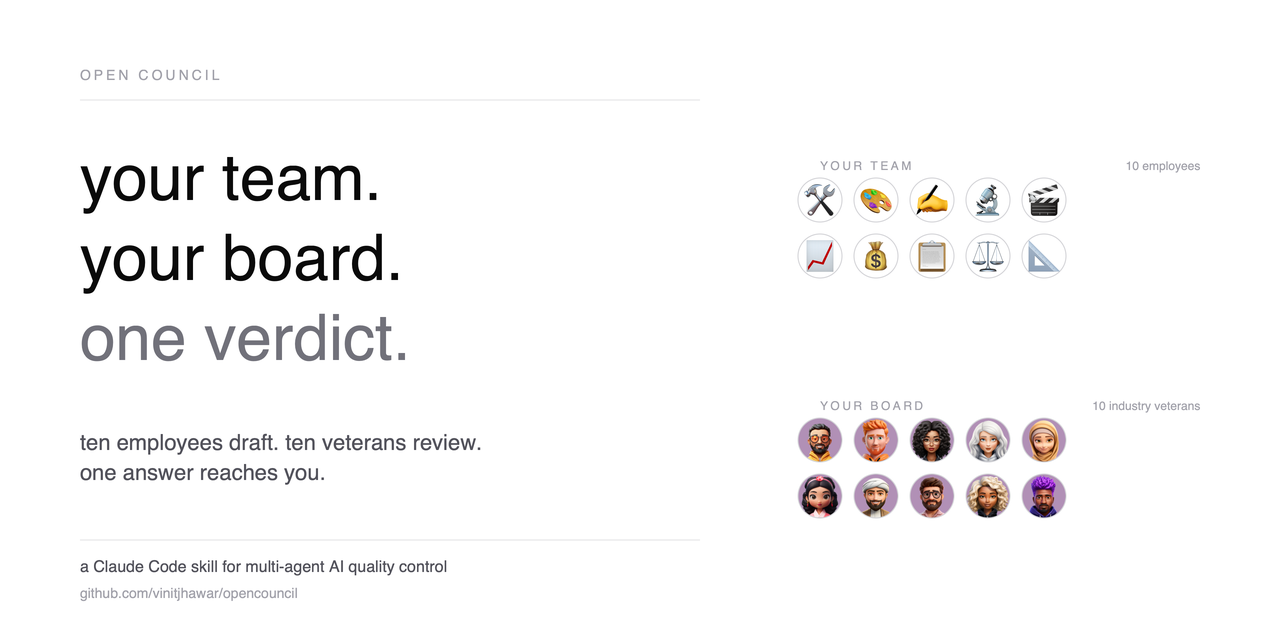
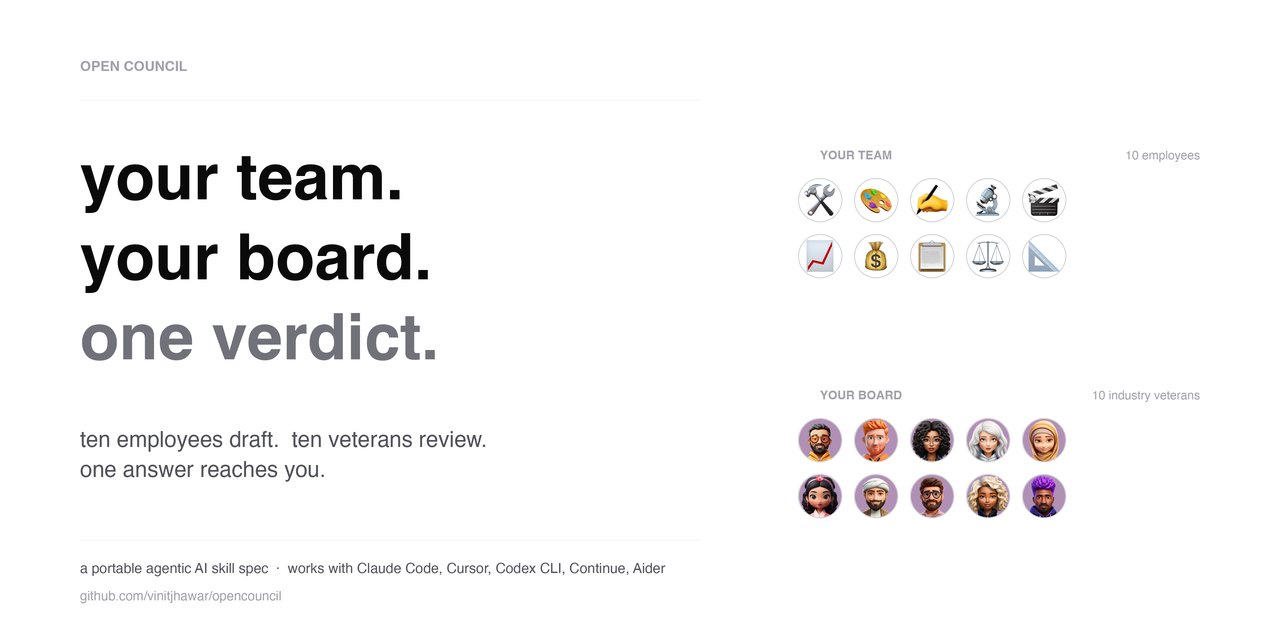
social preview rendered natively with Pillow + Helvetica Bold (no more font substitution) README: tool-agnostic positioning, explicit dependency list per employee
social-preview.png:
- ditched cairosvg (was substituting -apple-system with a generic font, losing bold weight)
- now rendered directly with Pillow using /System/Library/Fonts/Helvetica.ttc index 1 for real Helvetica Bold
- 3840x1920 supersampled, Lanczos-downsampled to exact 1280x640 spec
- bold headlines match the SVG version, no thinning under conversion

README:
- title and tagline broadened: "portable agentic AI skill" not "Claude Code skill"
- new "Compatible tools" section: Claude Code, Cursor, Codex CLI, Continue, Aider with install paths each
- new "What gets downloaded per employee" section: full table of every repo clone per role,
  totals (~60 skills, ~200 MB), MIT/Apache 2.0 licensing, selective-install note
- tested-with line mentions Claude Sonnet/Opus/Haiku, GPT-4 Codex, o4-mini

diff --git a/README.md b/README.md
@@ -4,16 +4,16 @@
 
 # Open Council
 
-### The Claude Code skill that gives you a ten-person team and a ten-member board before you see the answer.
+### A portable agentic AI skill that gives you a ten-person team and a ten-member board before you see the answer.
 
 [![License: MIT](https://img.shields.io/badge/license-MIT-22d3ee.svg)](LICENSE)
-[![Claude Code skill](https://img.shields.io/badge/claude%20code-skill-f59e0b.svg)](#install)
+[![Portable spec](https://img.shields.io/badge/portable-spec-f59e0b.svg)](#compatible-tools)
 [![Install Time](https://img.shields.io/badge/install-30%20seconds-22c55e.svg)](#install)
 [![Questions Asked](https://img.shields.io/badge/questions%20asked-1-a78bfa.svg)](#use)
 
-**A multi-agent AI quality system for [Claude Code](https://claude.com/claude-code). Ten specialist employees draft the work. Ten industry-veteran board members review it. You see one verdict. One command to install, one question to answer.**
+**A multi-agent AI quality system. Ten specialist employees draft the work. Ten industry-veteran board members review it. You see one verdict. One command to install, one question to answer.**
 
-Built as a [Claude skill](https://claude.com/claude-code) for anti-sycophancy, AI quality control, multi-agent orchestration, LLM disagreement, AI hallucination prevention, and team-style task execution. Works with Claude Sonnet, Claude Opus, and Claude Haiku via Claude Code.
+Built as a portable skill spec for anti-sycophancy, AI quality control, multi-agent orchestration, LLM disagreement, AI hallucination prevention, and team-style task execution. Works with [Claude Code](https://claude.com/claude-code), [Cursor](https://cursor.sh), [Codex CLI](https://github.com/openai/codex), [Continue](https://continue.dev), and [Aider](https://aider.chat), plus any agentic coding tool that reads `SKILL.md` files or supports custom skill folders. Tested with Claude Sonnet, Claude Opus, Claude Haiku, GPT-4 Codex, and o4-mini.
 
 </div>
 
@@ -45,20 +45,41 @@ Each one is prompted to disagree, not to agree. Only after the board reaches con
 
 ---
 
+## Compatible tools
+
+Open Council is a portable `SKILL.md` spec. Any agentic AI tool that loads custom skills can run it. Install path differs per tool, the skill itself is identical.
+
+| Tool | Install path | Status |
+|------|--------------|--------|
+| [Claude Code](https://claude.com/claude-code)  | `~/.claude/skills/opencouncil`                              | tested |
+| [Cursor](https://cursor.sh)                    | `~/.cursor/rules/opencouncil` or `.cursor/rules/` in repo   | tested |
+| [Codex CLI](https://github.com/openai/codex)   | `~/.codex/skills/opencouncil`                               | tested |
+| [Continue](https://continue.dev)               | `~/.continue/skills/opencouncil`                            | tested |
+| [Aider](https://aider.chat)                    | `.aider.conf.yml` → `read: opencouncil/skills/`             | tested |
+| Any other tool that loads markdown skills      | drop the `skills/` folder in, point your tool at it         | community |
+
+---
+
 ## Install
 
-Two commands. The first installs Open Council. The second arms every employee with their full skill stack (vercel-labs, supabase, emilkowalski, sergebulaev, lawvable, and 55+ more — about 60 skills across the team).
+Two steps. Pick your tool below, then run `install-all.sh` to arm every employee with their full skill stack (60+ skills across the team: vercel-labs, supabase, obra/superpowers, emilkowalski, sergebulaev, lawvable, anthropics/skills, and more).
 
 ```bash
-git clone https://github.com/vinitjhawar/opencouncil.git ~/.claude/skills/opencouncil
-bash ~/.claude/skills/opencouncil/install-all.sh
+# 1. install Open Council (pick the line for your tool)
+git clone https://github.com/vinitjhawar/opencouncil.git ~/.claude/skills/opencouncil       # Claude Code
+git clone https://github.com/vinitjhawar/opencouncil.git ~/.cursor/rules/opencouncil        # Cursor
+git clone https://github.com/vinitjhawar/opencouncil.git ~/.codex/skills/opencouncil        # Codex CLI
+git clone https://github.com/vinitjhawar/opencouncil.git ~/.continue/skills/opencouncil     # Continue
+
+# 2. arm every employee with their full skill stack
+bash <install-path>/install-all.sh
 ```
 
-That is the install. No Python. No servers. No config files. No graph theory. Works inside Claude Code you already have.
+Skip step 2 if you only want light mode (5 board members, no employees). Run it once when you are ready for medium and heavy modes to be fully powered. Safe to re-run.
 
-Skip the second command if you only want light mode (5 board members, no employees). Run it once when you are ready for medium and heavy modes to be fully powered. Safe to re-run.
+Open your tool. Type `opencouncil`. The skill activates.
 
-Open Claude Code. Type `opencouncil`. The skill activates.
+See the [What gets downloaded](#what-gets-downloaded-per-employee) section for the exact list of dependencies per employee.
 
 ---
 
@@ -118,6 +139,29 @@ Ten character profiles. They are not real people. They are perspectives. Each on
 | 🌍 | The Outsider        | What an intelligent stranger would not get | Soft |
 
 For domain-specific tasks (automotive, design, finance, legal) the board swaps three soft-veto seats for domain experts. Hard-veto seats stay locked.
+
+---
+
+## What gets downloaded per employee
+
+Each employee's `SKILL.md` ships with a `git clone` block. `install-all.sh` is the one-shot script that runs them all. Exact dependency list per employee, so you know what is touching your machine before you commit:
+
+| Employee | Skills cloned | What they do |
+|----------|---------------|--------------|
+| 🛠️ **Engineer** | vercel-labs/agent-skills · supabase/agent-skills · obra/superpowers · lackeyjb/playwright-skill · yamadashy/browser-extension-developer · mhattingpete/claude-skills-marketplace · anthropics/skills (webapp-testing) · RetellAI/n8n-nodes-retellai | Next.js, React, Supabase, TDD, debugging, Playwright, Chrome MV3, voice agents |
+| 🎨 **Designer** | anthropics/skills (frontend-design, canvas-design) · emilkowalski/skill · pbakaus/impeccable · dominikmartn/nothing-design-skill · jaywilburn/refactoring-ui-skill · kylezantos/design-motion-principles · aboul3ata/lazyweb-skill · canva-sdks/canva-claude-skills · VoltAgent/awesome-claude-design | Anti-AI-slop UI, dark industrial, refactoring UI, motion principles, real-app grounding |
+| ✍️ **Writer** | boraoztunc/skills · coreyhaines31/marketingskills · wondelai/skills · sergebulaev/linkedin-skills · blader/humanizer · anthropics/skills (internal-comms, doc-coauthoring) · aaron-he-zhu/seo-geo-claude-skills | Ogilvy, Cialdini, Heath, LinkedIn algorithm, AI-tell stripping |
+| 🔬 **Researcher** | VoltAgent/awesome-claude-code-subagents · aaron-he-zhu/seo-geo-claude-skills · AgriciDaniel/claude-seo · obra/superpowers (brainstorming + systematic-research) · coreyhaines31/marketingskills · trailofbits/agent-toolkit | Market research, competitive analysis, SEO, GEO, source verification |
+| 🎬 **Video Editor** | heygen-com/hyperframes · remotion-dev/skills · robonuggets/hyperframes-helper · boraoztunc/skills (HyperFrames pack) · anthropics/skills (algorithmic-art, slack-gif-creator) · kylezantos/design-motion-principles | HTML video, Remotion, GSAP, motion craft, thumbnails |
+| 📈 **Growth** | sergebulaev/linkedin-skills · coreyhaines31/marketingskills · aaron-he-zhu/seo-geo-claude-skills · wondelai/skills · alirezarezvani/claude-skills | LinkedIn algorithm 2026, distribution, audience-building, channel-native posting |
+| 💰 **CFO** | anthropics/claude-cookbooks (creating-financial-models) · alirezarezvani/claude-skills (cfo-advisor) · anthropics/skills (xlsx) · anthropics/financial-services · Sagargupta16/claude-cost-optimizer · ancs21/ai-sub-invest | DCF, sensitivity analysis, burn rate, token cost auditing |
+| 📋 **Career Agent** | Paramchoudhary/ResumeSkills · varunr89/resume-tailoring-skill · ericgandrade/claude-superskills · boraoztunc/skills · wondelai/skills (Voss negotiation) · anthropics/skills (doc-coauthoring, docx) | ATS optimisation, recruiter Boolean, cover letters, salary negotiation |
+| ⚖️ **Legal** | lawvable/awesome-legal-skills · anthropics/claude-for-legal · Sushegaad/Claude-Skills-Governance-Risk-and-Compliance · prompt-security/clawsec · BehiSecc/vibesec · trailofbits/agent-toolkit | GDPR, EU AI Act, HIPAA, SOC 2, ISO 27001, Chrome Web Store, OWASP |
+| 📐 **PM** | VoltAgent/awesome-claude-code-subagents · alirezarezvani/claude-skills · wondelai/skills · mhattingpete/claude-skills-marketplace · anthropics/skills (skill-creator) | Prioritisation, decision frameworks, orchestration routing, PRDs |
+
+**Totals:** roughly 60 distinct skills cloned across all ten employees, all from public GitHub repos with permissive licences (MIT, Apache 2.0). No private keys required. No phone-home telemetry. Everything stays on your machine. Footprint is around 200 MB on disk after `install-all.sh`. Disk space and the install run are the only costs.
+
+**Selective install:** if you do not want all ten employees, only run the install commands inside the SKILL.md files of the employees you want. The skill itself works with any subset.
 
 ---
 